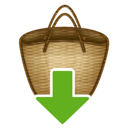
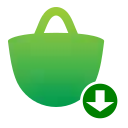
v0.0.9
0.0.9
fixed: The click event has been removed from CafeBazaar download buttons
improved: Now, logs are only reported in development mode
updated: The icons were formed with the current symbol of CafeBazaar (now PNG)

diff --git a/src/injectScript.js b/src/injectScript.js
@@ -1,78 +1,78 @@
 
 // CAD : Cafebazaar Apk Downloader
 // https://github.com/Ya-Zahra/cafabazaar-apk-downloader-firefox
-// MPL-2.0 license 
-  
+// MPL-2.0 license
+
 /* participants
 Ali Borhani (https://github.com/alibo) - first developer (Google Chrome)
 Ya Zahra (https://github.com/Ya-Zahra) - developer (Firefox)
 Issue 1: Muhammad Hussein Ammari (https://github.com/xmha97) - Firefox for android
-*/
-function log(a,b) {
-	
-	console.log(a,b);
+ */
+const _devMode = false;
+
+function log(...args) {
+    if (_devMode)
+        console.log('CAD:', ...args);
 }
 
 function waitForElement(selector) {
-	log('CAD: Waiting for Element - selector:',selector);
+    log('Waiting for Element - selector:', selector);
     return new Promise(function (resolve, reject) {
         let element = document.querySelectorAll(selector)
 
-        if (element && element.length > 0) {
-			log('CAD:','found without wait - number of elements:'+element.length);
-            resolve(element)
-            return;
-        }
-		let timeOut = 0;
+            if (element && element.length > 0) {
+                log('found without wait - number of elements:' + element.length);
+                resolve(element)
+                return;
+            }
+            let timeOut = 0;
         const interval = setInterval(() => {
-			timeOut += 100;
+            timeOut += 100;
             let element = document.querySelectorAll(selector);
 
             if (element && element.length > 0) {
                 clearInterval(interval)
-				log('CAD:','found with wait '+timeOut+' ms - number of elements:'+element.length);
+                log('found with wait ' + timeOut + ' ms - number of elements:' + element.length);
                 resolve(element)
                 return;
             }
-			if (timeOut > 20000) {
-				clearInterval(interval);
-				log('CAD: element not found, timeOut - selector:',selector);
-				reject("element not found, timeOut");
-				return;				
-			}
+            if (timeOut > 20000) {
+                clearInterval(interval);
+                log('element not found, timeOut - selector:', selector);
+                reject("element not found, timeOut");
+                return;
+            }
         }, 100)
     });
 }
 
-
 function waitForParent(parentN) {
-	log('CAD:','Waiting for parent');
+    log('Waiting for parent');
     return new Promise(function (resolve, reject) {
 
         if (parentN.parentNode) {
-			log('CAD:','parent found without wait');
+            log('parent found without wait');
             resolve(parentN.parentNode)
             return;
         }
-		let timeOut = 0;
+        let timeOut = 0;
         const interval = setInterval(() => {
-			timeOut += 100;
+            timeOut += 100;
             if (parentN.parentNode) {
                 clearInterval(interval)
-				log('CAD:','parentN found with wait '+timeOut+' ms');
+                log('parentN found with wait ' + timeOut + ' ms');
                 resolve(parentN.parentNode)
                 return;
             }
-			if (timeOut > 20000) {
-				clearInterval(interval);
-				log('CAD:','parent not found, timeOut');
-				reject("parent not found, timeOut");
-				return;
-			}
+            if (timeOut > 20000) {
+                clearInterval(interval);
+                log('parent not found, timeOut');
+                reject("parent not found, timeOut");
+                return;
+            }
         }, 100)
     });
 }
-
 
 //AppInstallBtn newbtn
 //
@@ -81,20 +81,20 @@ function waitForParent(parentN) {
 //div.DetailsPageHeader__buttons:nth-child(3) > a:nth-child(1)
 //.AppInstallBtn
 //AppInstallBtn newbtn
-log('CAD:','(Cafebazaar Apk Downloader) Started');
+log('(Cafebazaar Apk Downloader) Started');
 //function AIO() {
-waitForElement('.AppInstallBtn.newbtn').then(btns => {				
+waitForElement('.AppInstallBtn.newbtn').then(btns => {
     let url = btns[0].getAttribute('href')
-	log('CAD: btn href',url);	
+        log('btn href', url);
     let pkg = new URL(url).searchParams.get('id')
-	log('CAD: pkg',pkg);
-	if (!pkg) {
-		log('CAD: nul pkg - url is:',url);
-		return;
-	}
-	
-	log('CAD:','Request AppDownloadInfo');
-	
+        log('pkg', pkg);
+    if (!pkg) {
+        log('nul pkg - url is:', url);
+        return;
+    }
+
+    log('Request AppDownloadInfo');
+
     fetch('https://api.cafebazaar.ir/rest-v1/process/AppDownloadInfoRequest', {
         mode: 'cors',
         method: 'post',
@@ -123,99 +123,96 @@ waitForElement('.AppInstallBtn.newbtn').then(btns => {
         })
     }).then(async response => {
         let res = await response.json()
-		/*
-        if (!res.properties || !res.properties.statusCode || res.properties.statusCode != 200) {
-            log('CAD: !res.properties || res.properties.statusCode != 200', res)
+            /*
+            if (!res.properties || !res.properties.statusCode || res.properties.statusCode != 200) {
+            log('!res.properties || res.properties.statusCode != 200', res)
             //return
-        }
-		*/
-        if (!res.singleReply) {
-            log('CAD: response.singleReply is nul - return', res)
-            return;
-        }
-		
-		//alert(JSON.stringify(res));
-        let token = res.singleReply.appDownloadInfoReply.token
-        let cdnPrefix = res.singleReply.appDownloadInfoReply.cdnPrefix[0]
-        let packageSize = res.singleReply.appDownloadInfoReply.packageSize / 1024 / 1024
-        let versionCode = res.singleReply.appDownloadInfoReply.versionCode || 0
-		let downloadTitle;
-		let downloadTooltip;
-		if (document.documentElement.lang == 'en') {
-			log('CAD:','UI English');
-			downloadTitle = 'Download';
-			downloadTooltip = 'Happiness of the soul of the Imam and the martyrs SALAWAT';
-		} else {
-			log('CAD:','UI Farsi');
-			downloadTitle =  'دانلود';
-			downloadTooltip = 'شادی روح امام و شهدا صلوات';
+            }
+             */
+            if (!res.singleReply) {
+                log('response.singleReply is nul - return', res)
+                return;
+            }
+
+            //alert(JSON.stringify(res));
+            let token = res.singleReply.appDownloadInfoReply.token
+            let cdnPrefix = res.singleReply.appDownloadInfoReply.cdnPrefix[0]
+            let packageSize = res.singleReply.appDownloadInfoReply.packageSize / 1024 / 1024
+            let versionCode = res.singleReply.appDownloadInfoReply.versionCode || 0
+            let downloadTitle;
+        let downloadTooltip;
+        if (document.documentElement.lang == 'en') {
+            log('UI English');
+            downloadTitle = 'Download';
+            downloadTooltip = 'Happiness of the soul of the Imam and the martyrs SALAWAT';
+        } else {
+            log('UI Farsi');
+            downloadTitle = 'دانلود';
+            downloadTooltip = 'شادی روح امام و شهدا صلوات';
         }
 
         let downloadLink = `${cdnPrefix}apks/${token}.apk`
-        log('CAD: APK download link:', downloadLink)
+            log('APK download link:', downloadLink)
 
+            /*
+            let downloadBtn = document.createElement("a")
+            downloadBtn.setAttribute('class', 'btn btn-primary btn-large')
+            downloadBtn.setAttribute('href', downloadLink)
+            downloadBtn.setAttribute('title', downloadTooltip)
+            downloadBtn.textContent = `${downloadTitle} (${packageSize.toFixed(2)} MB)`
+             */
 
-		/*
-         let downloadBtn = document.createElement("a")
-        downloadBtn.setAttribute('class', 'btn btn-primary btn-large')
-        downloadBtn.setAttribute('href', downloadLink)
-        downloadBtn.setAttribute('title', downloadTooltip)
-        downloadBtn.textContent = `${downloadTitle} (${packageSize.toFixed(2)} MB)`
-		*/
+            /*
+            // downloadfn = Download FileName
+            let downloadfn = document.querySelector('.AppName').innerText
+            downloadfn += ' ' + document.querySelector('.AppSubtitles__item').innerText
+            downloadBtn.setAttribute('download',downloadfn)
+             */
 
-		/*
-		// downloadfn = Download FileName
-		let downloadfn = document.querySelector('.AppName').innerText
-		downloadfn += ' ' + document.querySelector('.AppSubtitles__item').innerText
-		downloadBtn.setAttribute('download',downloadfn)
-		*/
-		
-		/*
-		waitForParent(btn).then(pele => {
-			pele.insertBefore(downloadBtn, pele.childNodes[0]);
-			pele.removeChild(btn);
-		},
-		err=> {
-			log('CAD: (parent) - rejected with err:',err)
-        btn.setAttribute('class', 'btn btn-primary btn-large')
-        btn.setAttribute('href', downloadLink)
-        btn.setAttribute('title', downloadTooltip)
-        btn.textContent = `${downloadTitle} (${packageSize.toFixed(2)} MB)`
-		log('CAD: btn',btn);
-			
-		});
-		*/
-		
-		btns.forEach(function (btn,index) {
-		if (btn) { //.parentNode
-		
-		while(btn.attributes.length > 0) {
-			btn.removeAttribute(btn.attributes[0].name);
-		} 
-        btn.setAttribute('class', 'btn btn-primary btn-large')
-        btn.setAttribute('href', downloadLink)
-        btn.setAttribute('title', downloadTooltip)
-        btn.textContent = `${downloadTitle} (${packageSize.toFixed(2)} MB)`
-/*		
-			btn.parentNode.insertBefore(downloadBtn, btn.parentElement.childNodes[0])
-			btn.parentNode.removeChild(btn)
-*/
-			log('CAD:','Done for btn '+index)
-		} else {
-			log('CAD:','nul btn '+index)
+            /*
+            waitForParent(btn).then(pele => {
+            pele.insertBefore(downloadBtn, pele.childNodes[0]);
+            pele.removeChild(btn);
+            },
+            err=> {
+            log('(parent) - rejected with err:',err)
+            btn.setAttribute('class', 'btn btn-primary btn-large')
+            btn.setAttribute('href', downloadLink)
+            btn.setAttribute('title', downloadTooltip)
+            btn.textContent = `${downloadTitle} (${packageSize.toFixed(2)} MB)`
+            log('btn',btn);
 
-				//AIO();
-		}
-		});
+            });
+             */
 
+            btns.forEach(function (btn, index) {
+                if (btn) { //.parentNode
+                    while (btn.attributes.length > 0) {
+                        btn.removeAttribute(btn.attributes[0].name);
+                    }
+                    btn.setAttribute('class', 'btn btn-primary btn-large')
+                    btn.setAttribute('href', downloadLink)
+                    btn.setAttribute('title', downloadTooltip)
+                    btn.textContent = `${downloadTitle} (${packageSize.toFixed(2)} MB)`
+                        btn.replaceWith(btn.cloneNode(true));
+                    /*
+                    btn.parentNode.insertBefore(downloadBtn, btn.parentElement.childNodes[0])
+                    btn.parentNode.removeChild(btn)
+                     */
+                    log('Done for btn ' + index)
+                } else {
+                    log('nul btn ' + index)
 
-
-
+                    //AIO();
+                }
+            });
 
     }).catch(err => {
-//		alert(err);
-		log('CAD: error:', err)
-		})
-},err=> { log('CAD: rejected with err:', err)})
+        //		alert(err);
+        log('error:', err)
+    })
+}, err => {
+    log('rejected with err:', err)
+})
 //}
 //AIO();

diff --git a/src/background.js b/src/background.js
@@ -1,8 +1,8 @@
-console.log('CAD:','background script loaded');
+//console.log('CAD:','background script loaded');
 browser.tabs.onUpdated.addListener(function(tabId, changeInfo, tab) { 
-	console.log('CAD:','Listener loaded');
+	//console.log('CAD:','Listener loaded');
     if (tab.url && tab.url.startsWith('https://cafebazaar.ir/app/') && changeInfo.status == 'complete') {
-		console.log('CAD:','script injecting by background script');
+		//console.log('CAD:','script injecting by background script');
         browser.tabs.executeScript(null, {
             file: '/src/injectScript.js',
             runAt: 'document_end'

diff --git a/CHANGELOG.md b/CHANGELOG.md
@@ -1,5 +1,10 @@
 APK Downloader for Cafebazaar.ir
 
+0.0.9
+fixed: The click event has been removed from CafeBazaar download buttons
+improved: Now, logs are only reported in development mode
+updated: The icons were formed with the current symbol of CafeBazaar (now PNG)
+
 0.0.8
 Now ready for Firefox Nightly for Developers (Android) and Firefox Desktop
 

diff --git a/README.md b/README.md
@@ -7,7 +7,7 @@ A simple firefox extension for downloading APKs from [cafebazaar.ir](https://caf
 
 ### Install
 
-Add-ons for Firefox: https://addons.mozilla.org/en-US/firefox/addon/cafebazaar-apk-downloader/
+Add-ons for Firefox: https://addons.mozilla.org/addon/cafebazaar-apk-downloader/
 
 ### Known issues
 
